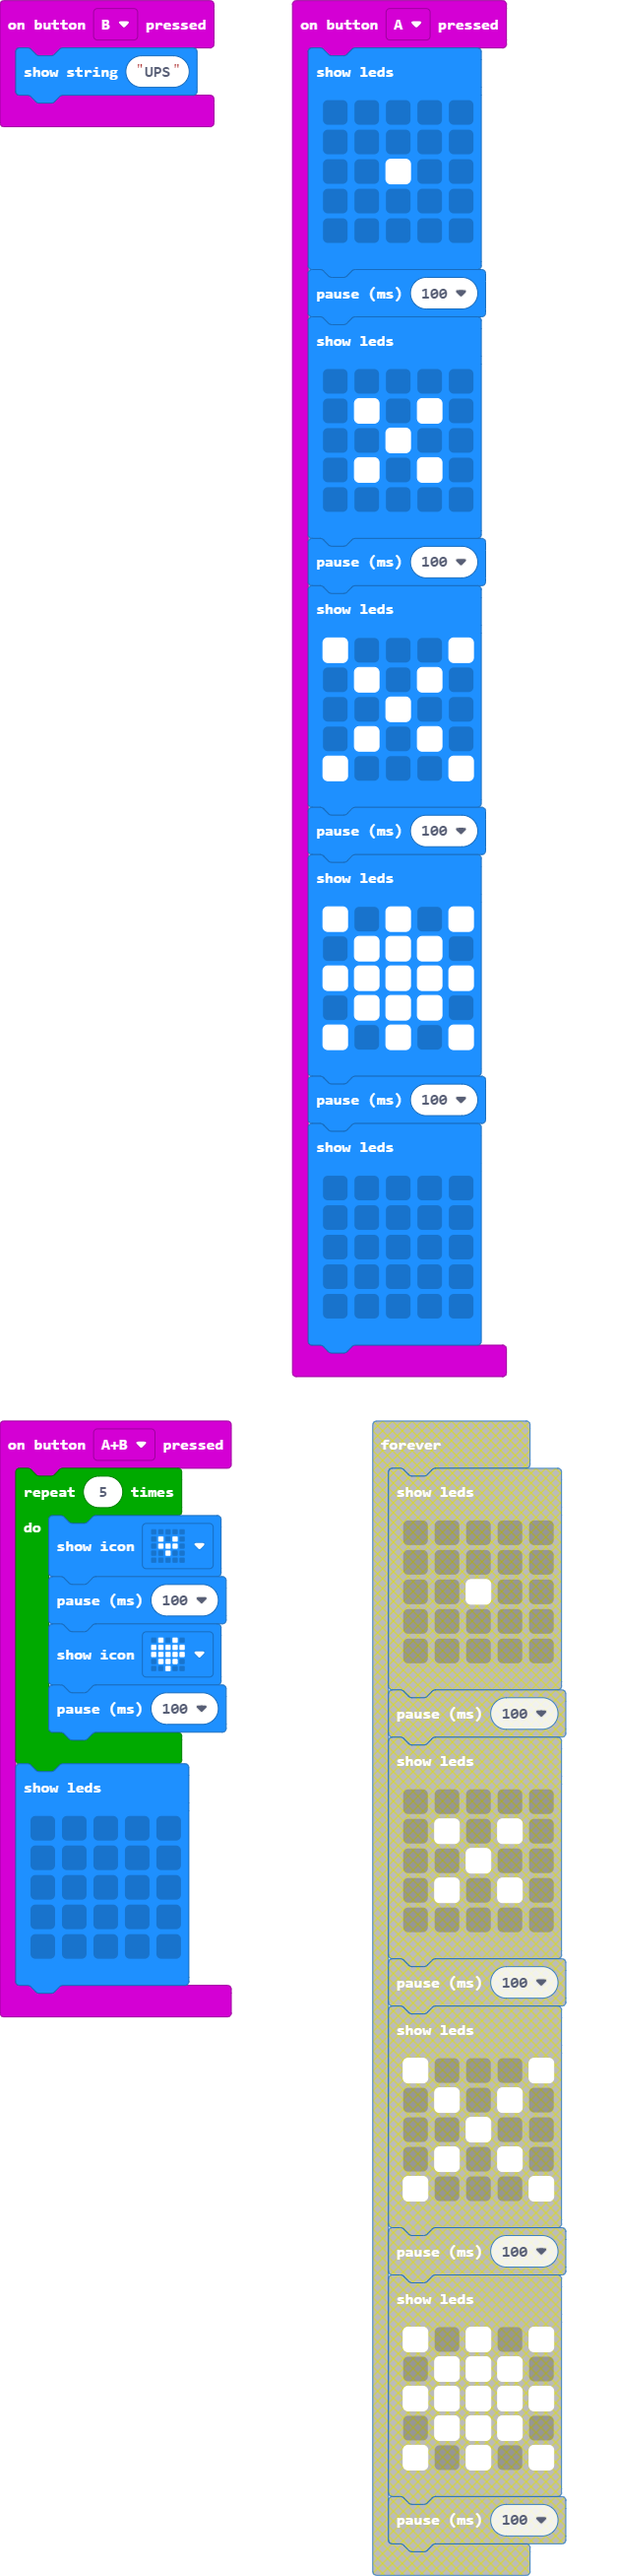
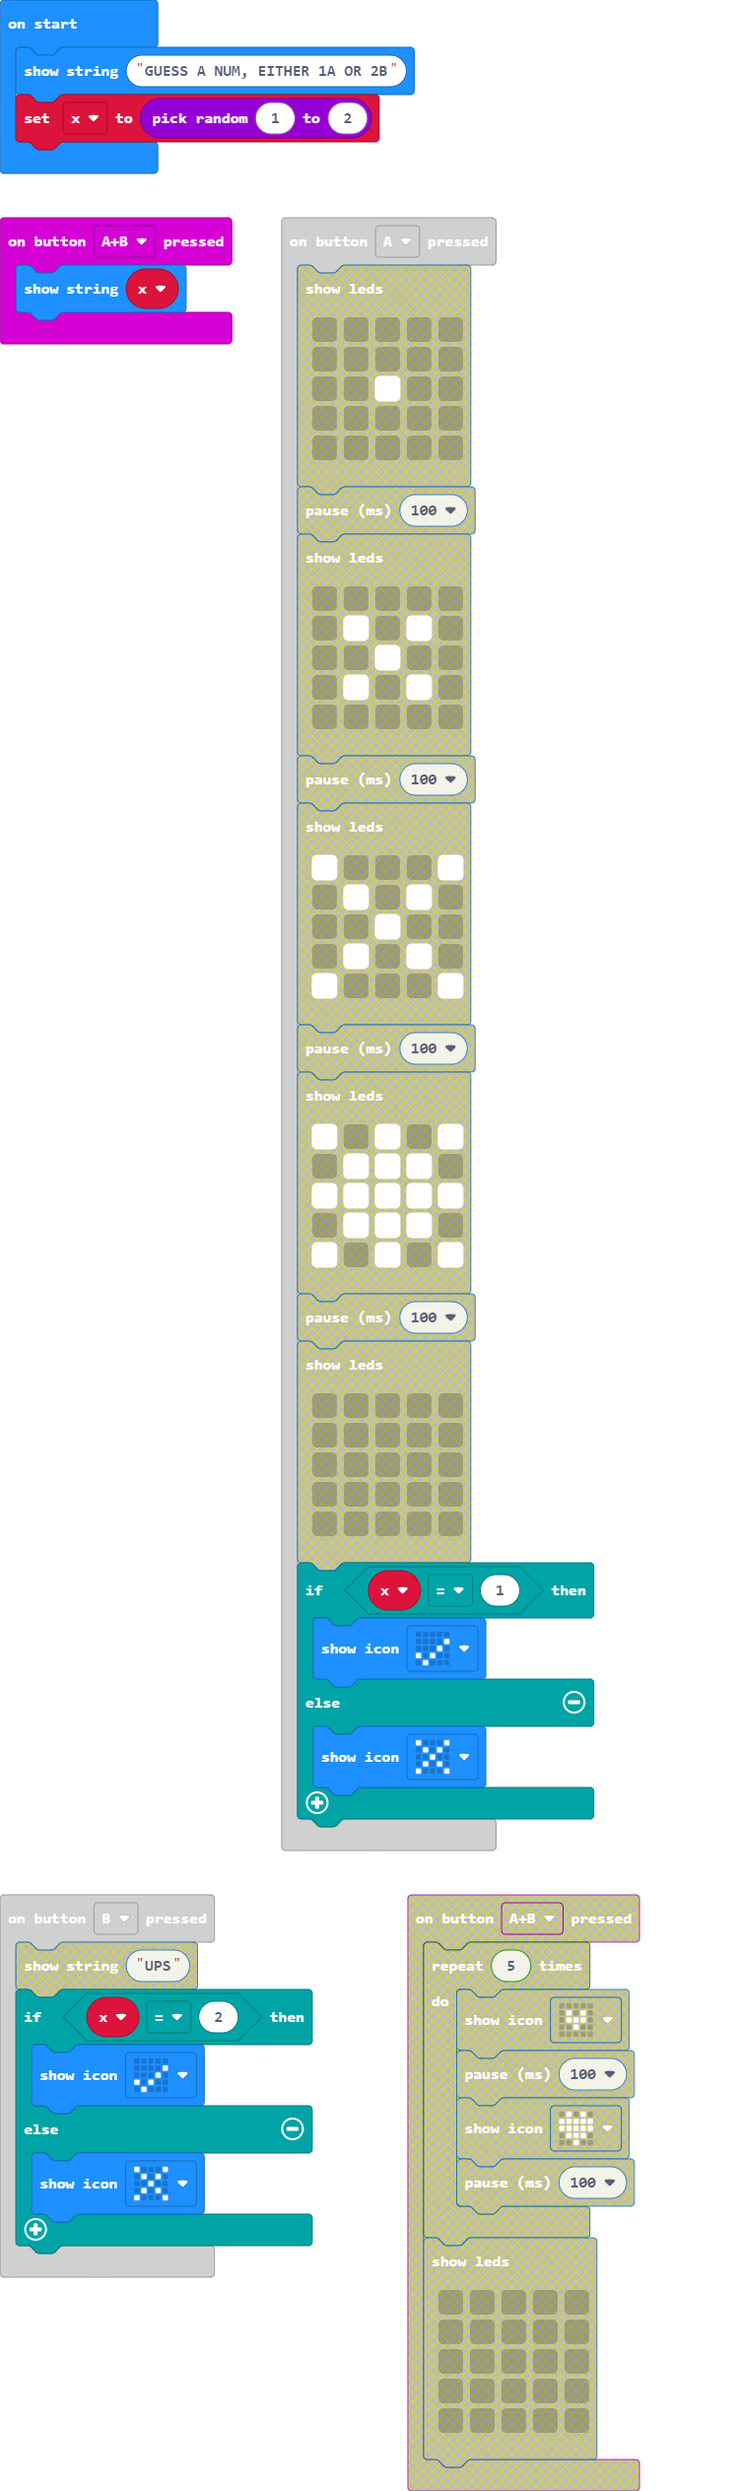
Update pxt.json, main.blocks, main.ts

diff --git a/main.ts b/main.ts
@@ -1,59 +1,20 @@
 input.onButtonPressed(Button.A, function () {
-    basic.showLeds(`
-        . . . . .
-        . . . . .
-        . . # . .
-        . . . . .
-        . . . . .
-        `)
-    basic.pause(100)
-    basic.showLeds(`
-        . . . . .
-        . # . # .
-        . . # . .
-        . # . # .
-        . . . . .
-        `)
-    basic.pause(100)
-    basic.showLeds(`
-        # . . . #
-        . # . # .
-        . . # . .
-        . # . # .
-        # . . . #
-        `)
-    basic.pause(100)
-    basic.showLeds(`
-        # . # . #
-        . # # # .
-        # # # # #
-        . # # # .
-        # . # . #
-        `)
-    basic.pause(100)
-    basic.showLeds(`
-        . . . . .
-        . . . . .
-        . . . . .
-        . . . . .
-        . . . . .
-        `)
+    if (x == 1) {
+        basic.showIcon(IconNames.Yes)
+    } else {
+        basic.showIcon(IconNames.No)
+    }
 })
 input.onButtonPressed(Button.AB, function () {
-    for (let index = 0; index < 5; index++) {
-        basic.showIcon(IconNames.SmallHeart)
-        basic.pause(100)
-        basic.showIcon(IconNames.Heart)
-        basic.pause(100)
-    }
-    basic.showLeds(`
-        . . . . .
-        . . . . .
-        . . . . .
-        . . . . .
-        . . . . .
-        `)
+    basic.showString("" + (x))
 })
 input.onButtonPressed(Button.B, function () {
-    basic.showString("UPS")
+    if (x == 2) {
+        basic.showIcon(IconNames.Yes)
+    } else {
+        basic.showIcon(IconNames.No)
+    }
 })
+let x = 0
+basic.showString("GUESS A NUM, EITHER 1A OR 2B")
+x = randint(1, 2)
